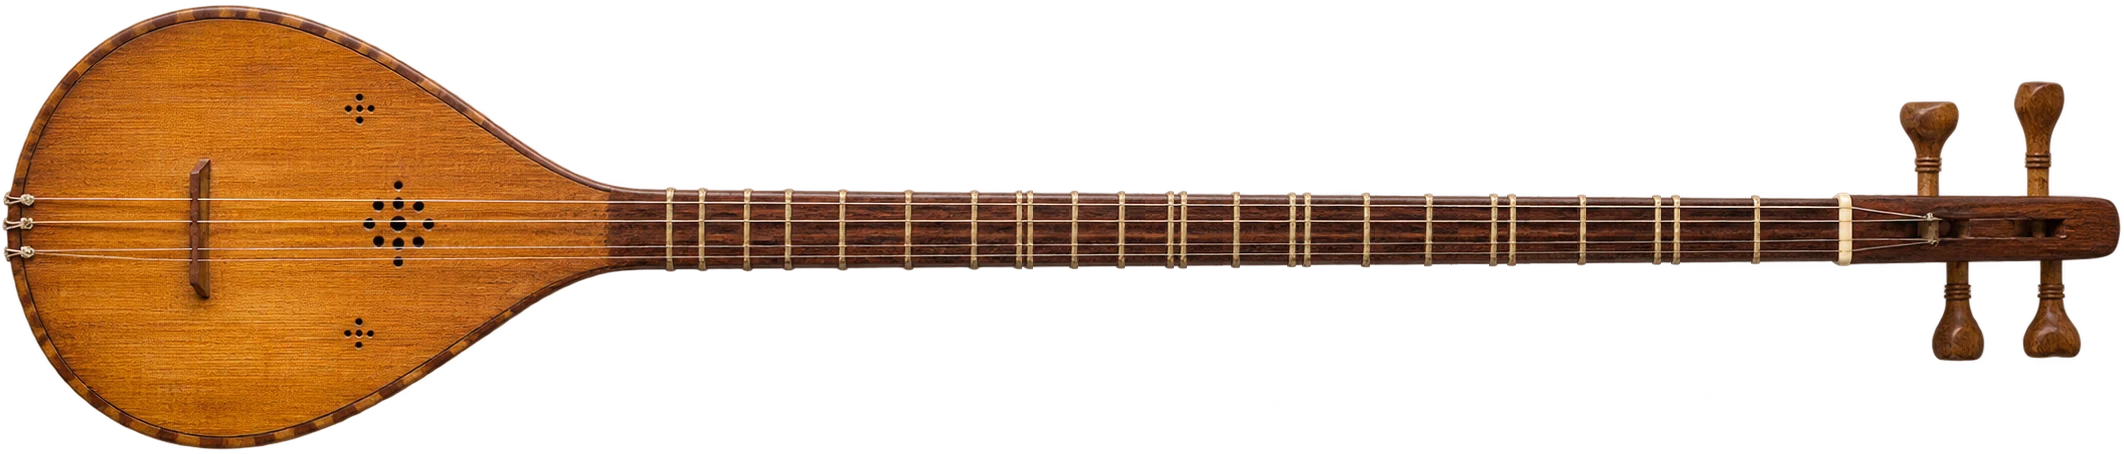
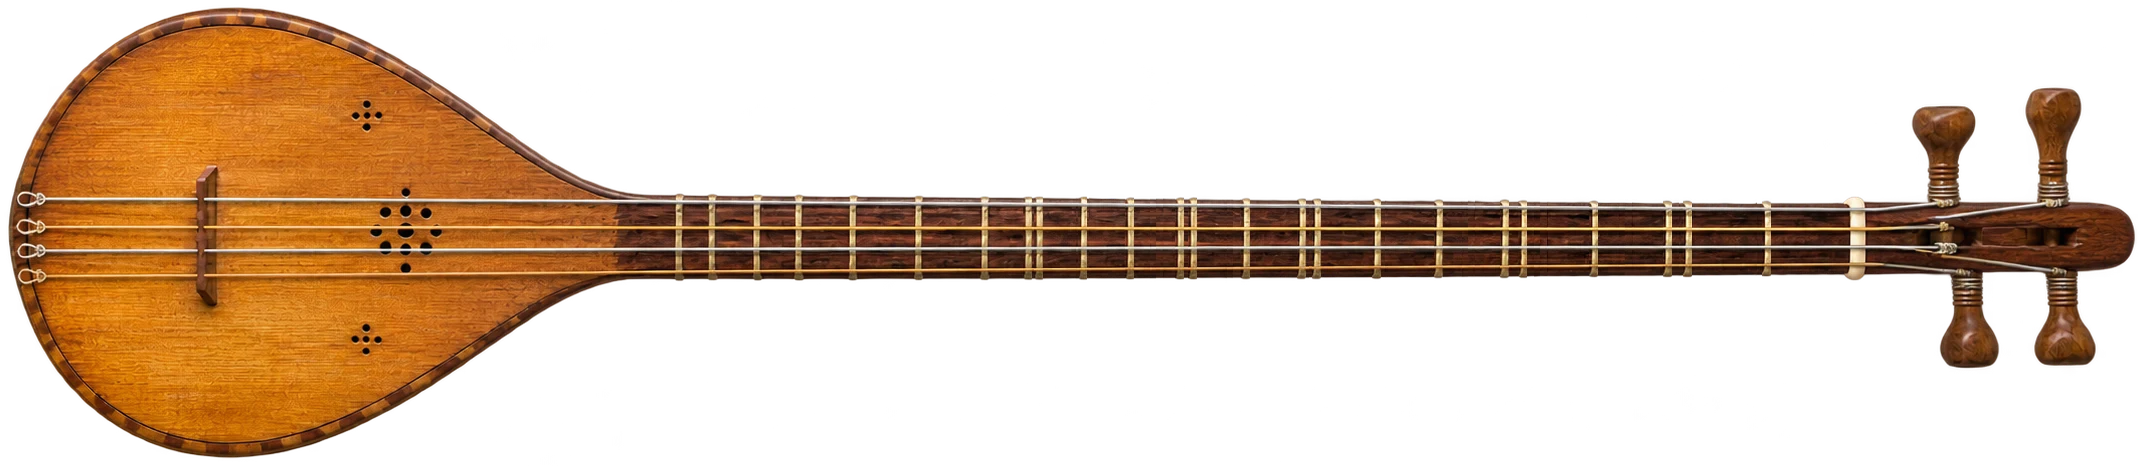
Show four individually anchored strings and recalibrate the portrait

Changed region(s): [[0.0, 0.0, 1.0, 1.0]]

diff --git a/index.html b/index.html
@@ -163,7 +163,7 @@
     <svg id="instrumentSvg" viewBox="0 0 1244 232" role="img" aria-label="Practical instrument schematic">
       <!-- The image is registered at its bridge (193) and nut (998) in ruler units. -->
       <image id="instrumentPortrait" href="assets/instruments/setar.webp"
-             x="96.909" y="3.24" width="1041.303" height="222.576" pointer-events="none"/>
+             x="93.7802" y="0.1621" width="1047.9174" height="227.7656" pointer-events="none"/>
       <g id="instrumentOverlayLayer"></g>
     </svg>
     <div class="instrument-caption"></div>
